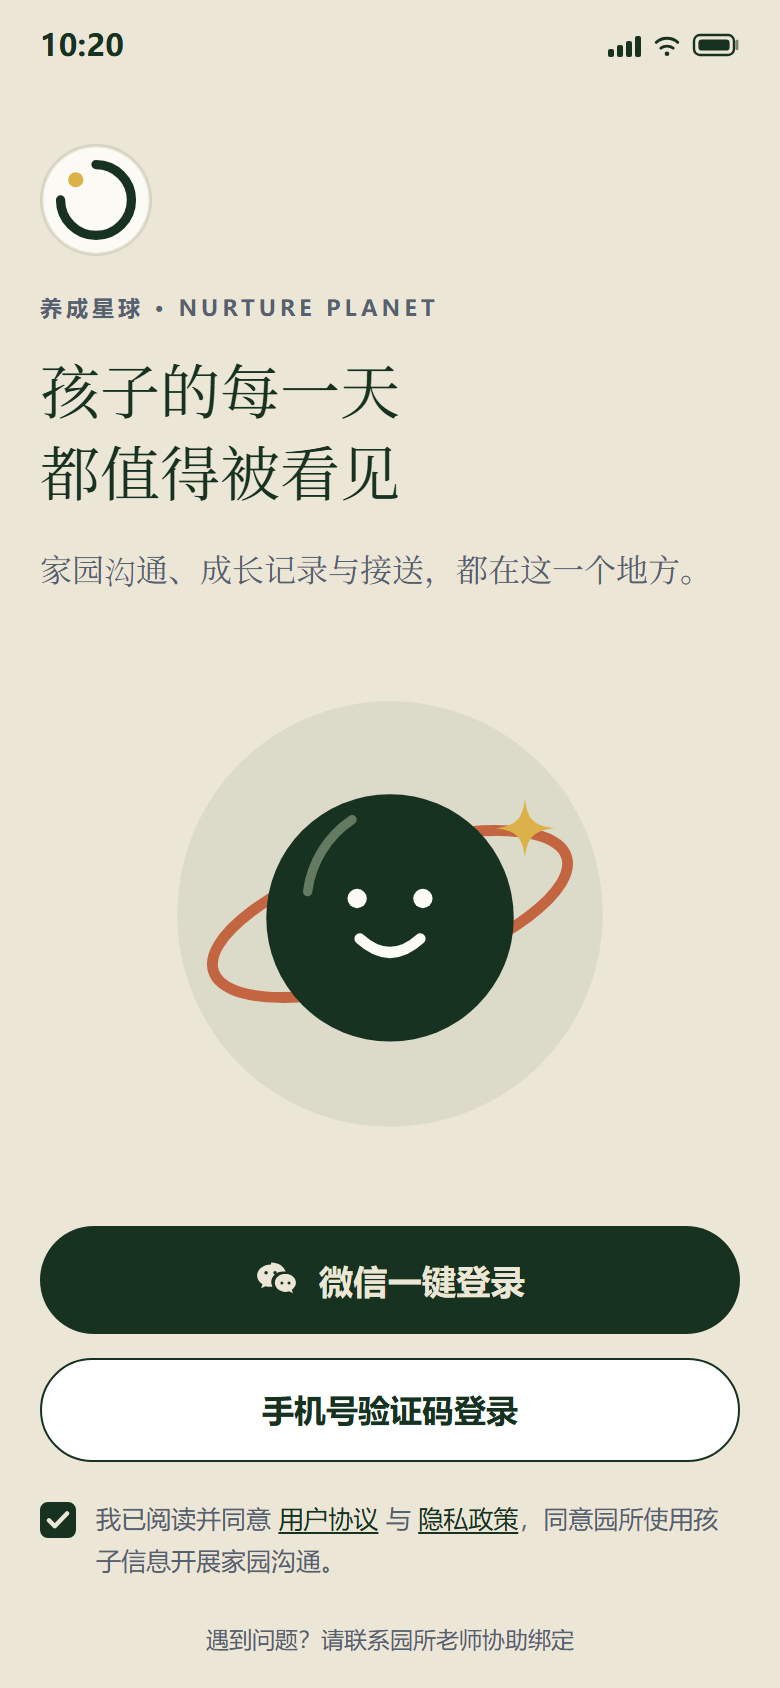
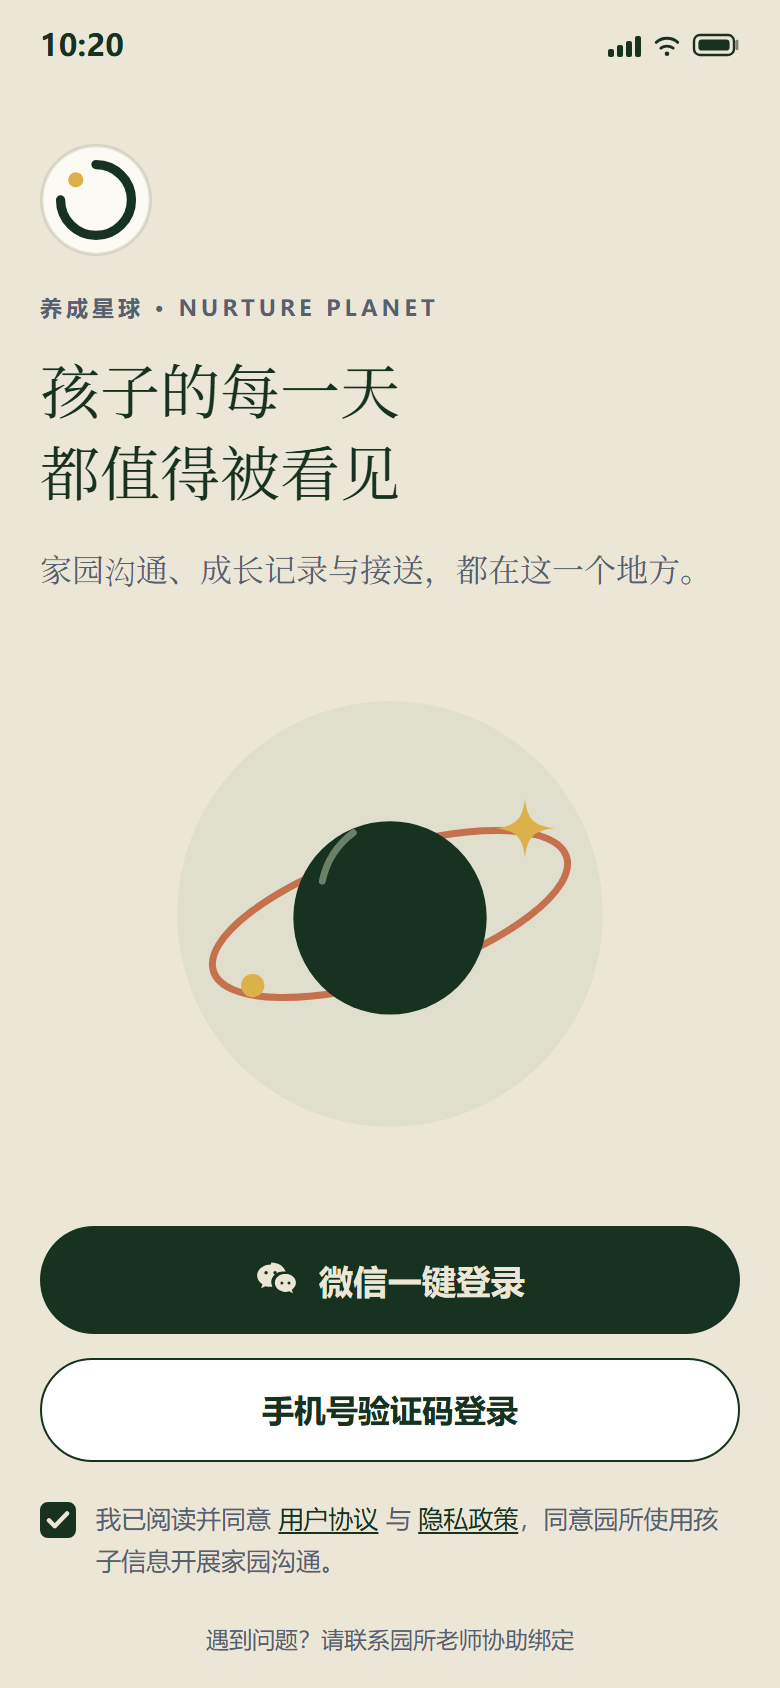
docs(design): 登录页插画迭代（去笑脸 + 细轨道）
- 星球改为无脸小星球，轨道收细并加小卫星点
- CHOSEN / brief / 两个变体 HTML 与 preview 同步更新

Changed region(s): [[0.2769, 0.4621, 0.7077, 0.6161], [0.7077, 0.4929, 0.7385, 0.5237]]

diff --git a/docs/design-previews/2026-11-13-parent-dna-opendesign/parent-chosen/02-login/index.html b/docs/design-previews/2026-11-13-parent-dna-opendesign/parent-chosen/02-login/index.html
@@ -37,16 +37,14 @@
 
       <div class="hero-art" data-od-id="planet-illustration">
         <svg viewBox="0 0 120 120" width="232" height="232" fill="none" role="img" aria-labelledby="planet-title planet-desc">
-          <title id="planet-title">一颗微笑的小星球</title>
-          <desc id="planet-desc">浅绿色圆底上，松绿小星球沿赤陶色轨道航行，旁边有一颗金色小星。</desc>
-          <circle cx="60" cy="60" r="55" fill="var(--sage)" opacity=".17"/>
-          <ellipse cx="60" cy="60" rx="48" ry="16.5" transform="rotate(-18 60 60)" stroke="var(--terracotta)" stroke-width="2.8"/>
+          <title id="planet-title">一颗沿轨道运行的小星球</title>
+          <desc id="planet-desc">浅绿圆底上，松绿小星球沿赤陶色轨道航行，旁边有一颗金色小星。</desc>
+          <circle cx="60" cy="60" r="55" fill="var(--sage)" opacity=".12"/>
+          <ellipse cx="60" cy="60" rx="48" ry="16.5" transform="rotate(-18 60 60)" stroke="var(--terracotta)" stroke-width="1.8" opacity=".9"/>
+          <circle cx="60" cy="61" r="25" fill="var(--fg)"/>
+          <path d="M42.5 51.5A21 21 0 0 1 50.5 39" stroke="var(--sage)" stroke-width="1.8" stroke-linecap="round" opacity=".7"/>
           <path d="M94.9 30.2c.6 5.3 2.3 7 7.6 7.6-5.3.6-7 2.3-7.6 7.6-.6-5.3-2.3-7-7.6-7.6 5.3-.6 7-2.3 7.6-7.6Z" fill="var(--marigold)"/>
-          <circle cx="60" cy="61" r="32" fill="var(--fg)"/>
-          <path d="M38.7 54.2A26.5 26.5 0 0 1 50.2 35.6" stroke="var(--sage)" stroke-width="2.4" stroke-linecap="round" opacity=".65"/>
-          <circle cx="51.5" cy="56" r="2.5" fill="var(--surface-soft)"/>
-          <circle cx="68.5" cy="56" r="2.5" fill="var(--surface-soft)"/>
-          <path d="M52.2 66.4Q60 73.5 67.8 66.4" stroke="var(--surface-soft)" stroke-width="2.8" stroke-linecap="round"/>
+          <circle cx="24.5" cy="78.5" r="3" fill="var(--marigold)"/>
         </svg>
       </div>
 

diff --git a/docs/design-previews/2026-11-13-parent-dna-opendesign/parent/02-login/index.html b/docs/design-previews/2026-11-13-parent-dna-opendesign/parent/02-login/index.html
@@ -37,16 +37,14 @@
 
       <div class="hero-art" data-od-id="planet-illustration">
         <svg viewBox="0 0 120 120" width="232" height="232" fill="none" role="img" aria-labelledby="planet-title planet-desc">
-          <title id="planet-title">一颗微笑的小星球</title>
-          <desc id="planet-desc">浅绿色圆底上，松绿小星球沿赤陶色轨道航行，旁边有一颗金色小星。</desc>
-          <circle cx="60" cy="60" r="55" fill="var(--sage)" opacity=".17"/>
-          <ellipse cx="60" cy="60" rx="48" ry="16.5" transform="rotate(-18 60 60)" stroke="var(--terracotta)" stroke-width="2.8"/>
+          <title id="planet-title">一颗沿轨道运行的小星球</title>
+          <desc id="planet-desc">浅绿圆底上，松绿小星球沿赤陶色轨道航行，旁边有一颗金色小星。</desc>
+          <circle cx="60" cy="60" r="55" fill="var(--sage)" opacity=".12"/>
+          <ellipse cx="60" cy="60" rx="48" ry="16.5" transform="rotate(-18 60 60)" stroke="var(--terracotta)" stroke-width="1.8" opacity=".9"/>
+          <circle cx="60" cy="61" r="25" fill="var(--fg)"/>
+          <path d="M42.5 51.5A21 21 0 0 1 50.5 39" stroke="var(--sage)" stroke-width="1.8" stroke-linecap="round" opacity=".7"/>
           <path d="M94.9 30.2c.6 5.3 2.3 7 7.6 7.6-5.3.6-7 2.3-7.6 7.6-.6-5.3-2.3-7-7.6-7.6 5.3-.6 7-2.3 7.6-7.6Z" fill="var(--marigold)"/>
-          <circle cx="60" cy="61" r="32" fill="var(--fg)"/>
-          <path d="M38.7 54.2A26.5 26.5 0 0 1 50.2 35.6" stroke="var(--sage)" stroke-width="2.4" stroke-linecap="round" opacity=".65"/>
-          <circle cx="51.5" cy="56" r="2.5" fill="var(--surface-soft)"/>
-          <circle cx="68.5" cy="56" r="2.5" fill="var(--surface-soft)"/>
-          <path d="M52.2 66.4Q60 73.5 67.8 66.4" stroke="var(--surface-soft)" stroke-width="2.8" stroke-linecap="round"/>
+          <circle cx="24.5" cy="78.5" r="3" fill="var(--marigold)"/>
         </svg>
       </div>
 

diff --git a/docs/design-previews/2026-11-13-parent-dna-opendesign/briefs/02-login.md b/docs/design-previews/2026-11-13-parent-dna-opendesign/briefs/02-login.md
@@ -18,7 +18,7 @@
    - 眉题：`养成星球 · NURTURE PLANET`（11px / 0.18em / 600）
    - H1（两行，手动断行）：`孩子的每一天` / `都值得被看见`
    - 导语（衬线 16px / 1.8）：`家园沟通、成长记录与接送，都在这一个地方。`
-3. **插画**：120 网格、约 232×232 的内联 SVG。浅 sage 圆底 + 松绿星球 + 赤陶轨道环 + marigold 小星 + 简单笑脸；只用 DNA 填充白名单色，不贴边，不加渐变/阴影。
+3. **插画**：120 网格、约 232×232 的内联 SVG。浅 sage 圆底（opacity 约 .12）+ 松绿小星球（无脸，r≈25）+ 赤陶细轨道（约 1.8px）+ marigold 小星 + 小卫星点；线条细、留白多，不要笑脸/粗描边/渐变/阴影。
 4. **操作区**（靠近底部）
    - 主按钮（通栏，松绿）：微信图标 + `微信一键登录`
    - 次按钮（白底 + 1px 松绿描边）：`手机号验证码登录`

diff --git a/docs/design-previews/2026-11-13-parent-dna-opendesign/CHOSEN.md b/docs/design-previews/2026-11-13-parent-dna-opendesign/CHOSEN.md
@@ -21,6 +21,7 @@
 - 设计稿用 **DNA 版**：`_shared/logo-dna.svg`（pine `#173220` / marigold `#DDB14A` / cream `#FCFAF4`；几何沿用官方 logo，只换色）
 - 官方 PNG `_shared/logo.png`（复制自 `parent/src/static/logo.png`）保留为品牌资产
 - 02 登录：56×56，置于 `养成星球 · NURTURE PLANET` 眉题上方
+- 02 登录中间图案：抽象轨道（松绿小星球无脸 + 赤陶细轨道 + marigold 星点），不再用笑脸星球
 - 31 我的：页头右上角 28×28；页脚版本行 16×16
 - V8 单孩子：页头 24×24（在“单孩子”角标左侧）+ 页脚 16×16
 - 其他页面不重复放 logo；品牌 mark 只在登录与账号页出现，避免每页都贴标
